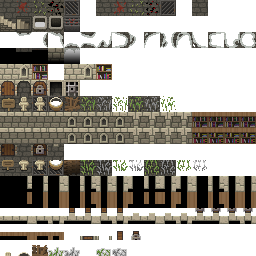
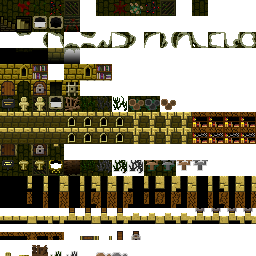
- Improved stat distribution window - Added a new Challenge: Rust - Reverted Armour degrade system to old method - Added new Prisons tileset

diff --git a/core/src/main/java/com/shatteredpixel/yasd/windows/WndHero.java b/core/src/main/java/com/shatteredpixel/yasd/windows/WndHero.java
@@ -58,12 +58,19 @@ public class WndHero extends WndTabbed {
 	private StatsTab stats;
 	private BuffsTab buffs;
 	private AbilitiesTab abilities;
+
+	private LabeledTab abilitiesTab = new LabeledTab( Messages.get(this, "abilities") ) {
+		protected void select( boolean value ) {
+			super.select( value );
+			abilities.visible = abilities.active = selected;
+		}
+	} ;
 	
 	private SmartTexture icons;
 	private TextureFilm film;
 
 	public void switchToAbilities() {
-		abilities.visible = abilities.active = true;
+		abilities.visible = abilities.active = abilitiesTab.selected = true;
 		buffs.visible = buffs.active = stats.visible = stats.active = false;
 	}
 	
@@ -100,12 +107,7 @@ public class WndHero extends WndTabbed {
 			}
 		} );
 
-		add( new LabeledTab( Messages.get(this, "abilities") ) {
-			protected void select( boolean value ) {
-				super.select( value );
-				abilities.visible = abilities.active = selected;
-			}
-		} );
+		add( abilitiesTab );
 		layoutTabs();
 		
 		select( 0 );
@@ -119,7 +121,7 @@ public class WndHero extends WndTabbed {
 		private static final int BTN_WIDTH  = 20;
 		private static final int BTN_HEIGHT	= 20;
 
-		private class statIncreaseButton extends RedButton {
+		private abstract class statIncreaseButton extends RedButton {
 
 			public statIncreaseButton() {
 				super("+");
@@ -132,13 +134,14 @@ public class WndHero extends WndTabbed {
 					Dungeon.hero.DistributionPoints--;
 					onBackPressed();
 					increaseStat();
+					WndHero window = new WndHero();
+					window.switchToAbilities();
+					GameScene.show(window);
 				} else {
 					GLog.w(Messages.get(WndHero.class,"no_points"));
 				}
 			}
-			protected void increaseStat() {
-
-			}
+			protected abstract void increaseStat();
 		}
 
 		public AbilitiesTab() {

diff --git a/core/src/main/java/com/shatteredpixel/yasd/Challenges.java b/core/src/main/java/com/shatteredpixel/yasd/Challenges.java
@@ -32,6 +32,8 @@ import com.shatteredpixel.yasd.items.food.Food;
 import com.shatteredpixel.yasd.items.food.SmallRation;
 import com.shatteredpixel.yasd.items.potions.PotionOfHealing;
 import com.shatteredpixel.yasd.items.scrolls.ScrollOfUpgrade;
+import com.shatteredpixel.yasd.items.stones.StoneOfRepair;
+import com.watabou.utils.DeviceCompat;
 
 public class Challenges {
 
@@ -44,8 +46,9 @@ public class Challenges {
 	public static final int DARKNESS			= 32;
 	public static final int NO_SCROLLS		    = 64;
 	public static final int COLLAPSING_FLOOR    = 128;
+	public static final int NO_REPAIR           = 256;
 
-	public static final int MAX_VALUE           = 255;
+	public static final int MAX_VALUE           = 511;
 
 	public static final String[] NAME_IDS = {
 			"no_food",
@@ -55,11 +58,12 @@ public class Challenges {
 			"swarm_intelligence",
 			"darkness",
 			"no_scrolls",
-			"collapsing_floor"
+			"collapsing_floor",
+			"no_repair"
 	};
 
 	public static final int[] MASKS = {
-			NO_FOOD, NO_ARMOR, NO_HEALING, NO_HERBALISM, SWARM_INTELLIGENCE, DARKNESS, NO_SCROLLS, COLLAPSING_FLOOR
+			NO_FOOD, NO_ARMOR, NO_HEALING, NO_HERBALISM, SWARM_INTELLIGENCE, DARKNESS, NO_SCROLLS, COLLAPSING_FLOOR, NO_REPAIR
 	};
 
 	public static boolean isItemBlocked( Item item ){
@@ -96,6 +100,10 @@ public class Challenges {
 			if (item instanceof ScrollOfUpgrade) {
 				return true;
 			}
+		}
+
+		if (Dungeon.isChallenged(NO_REPAIR)) {
+			return item instanceof StoneOfRepair;
 		}
 
 		return false;

diff --git a/core/src/main/java/com/shatteredpixel/yasd/actors/Char.java b/core/src/main/java/com/shatteredpixel/yasd/actors/Char.java
@@ -530,7 +530,7 @@ public abstract class Char extends Actor {
 		return 1f;
 	}
 
-	public boolean magicalAttack( Char enemy) {
+	public boolean magicalAttack( Char enemy ) {
 		return magicalAttack(enemy, this);
 	}
 
@@ -588,8 +588,9 @@ public abstract class Char extends Actor {
 		if (usesBelongings) {
 			if (belongings.getArmors() != null) {
 				ArrayList<Armor> Armors = belongings.getArmors();
-				Armors.get(0).use();
+				int degradeAmount = new Item().defaultDegradeAmount();
 				for (int i = 0; i < Armors.size(); i++) {
+					Armors.get(i).use(degradeAmount/Armors.size());
 					int armDr = Random.NormalIntRange(Armors.get(i).DRMin(), Armors.get(i).DRMax());
 					if (STR() < Armors.get(i).STRReq()) {
 						armDr -= 2 * (Armors.get(i).STRReq() - STR());

diff --git a/core/src/main/java/com/shatteredpixel/yasd/items/Item.java b/core/src/main/java/com/shatteredpixel/yasd/items/Item.java
@@ -23,6 +23,7 @@ package com.shatteredpixel.yasd.items;
 
 import com.shatteredpixel.yasd.Assets;
 import com.shatteredpixel.yasd.Badges;
+import com.shatteredpixel.yasd.Challenges;
 import com.shatteredpixel.yasd.Dungeon;
 import com.shatteredpixel.yasd.actors.Actor;
 import com.shatteredpixel.yasd.actors.Char;
@@ -115,7 +116,12 @@ public class Item implements Bundlable {
 	}
 
 	public void fullyRepair() {
-		curDurability = MAXIMUM_DURABILITY;
+		if (!Dungeon.isChallenged(Challenges.NO_REPAIR)) {
+			curDurability = MAXIMUM_DURABILITY;
+		} else {
+			curDurability += MAXIMUM_DURABILITY/2;
+			curDurability = Math.min(curDurability,MAXIMUM_DURABILITY);
+		}
 		saidAlmostBreak = false;
 	}
 
